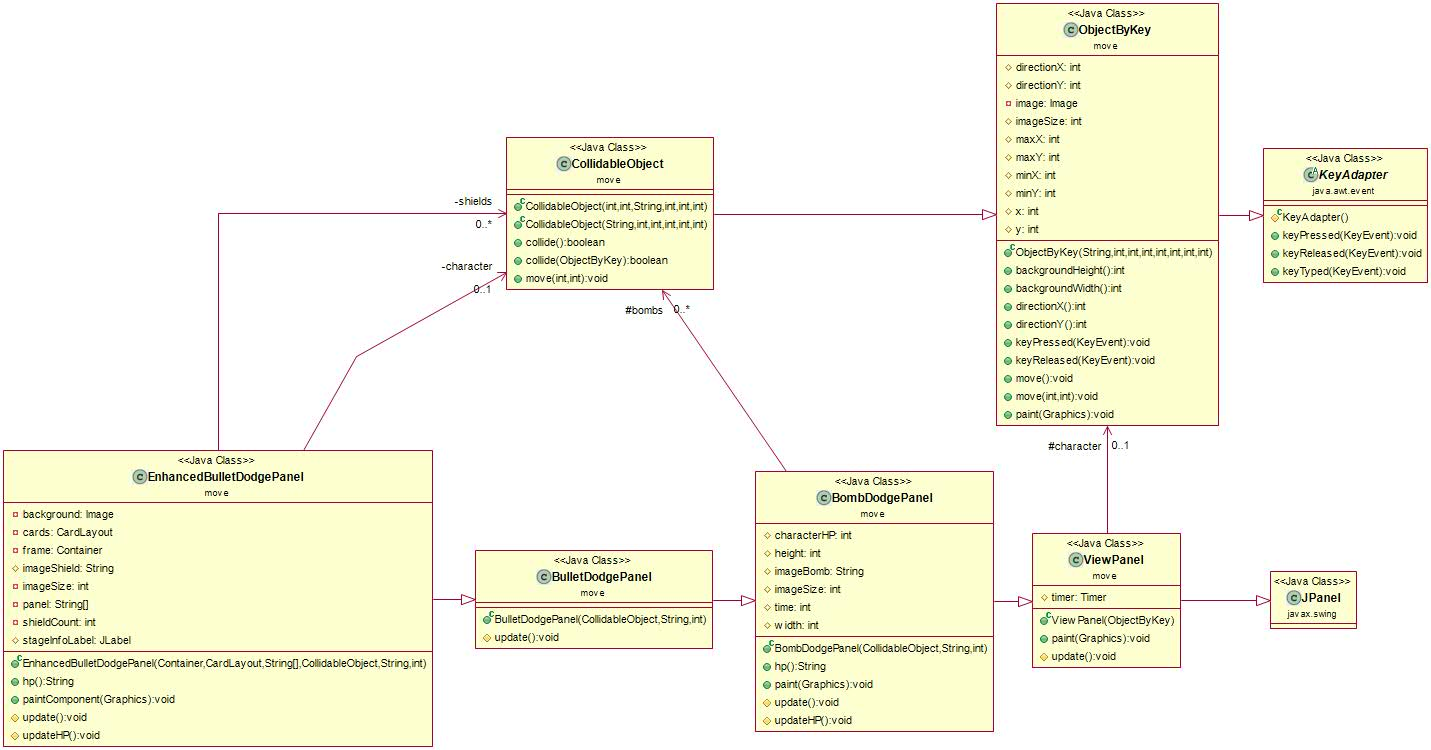
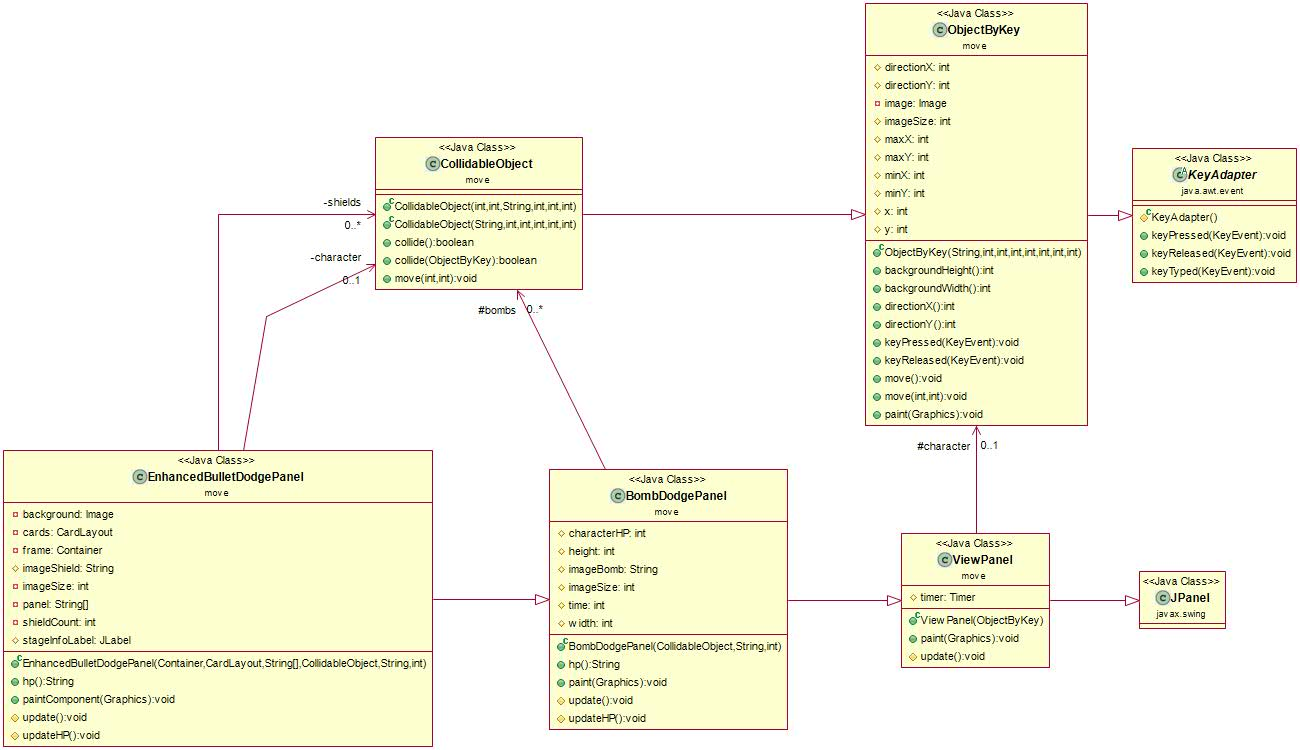
불필요했던 BulletDodgePanel 삭제

diff --git a/src/move/EnhancedBulletDodgePanel.java b/src/move/EnhancedBulletDodgePanel.java
@@ -8,7 +8,7 @@ import java.util.ArrayList;
 import javax.swing.*;
 
 // 개선된 총알 피하기 패널
-public class EnhancedBulletDodgePanel extends BulletDodgePanel
+public class EnhancedBulletDodgePanel extends BombDodgePanel
 {
 
 	private Container frame;
